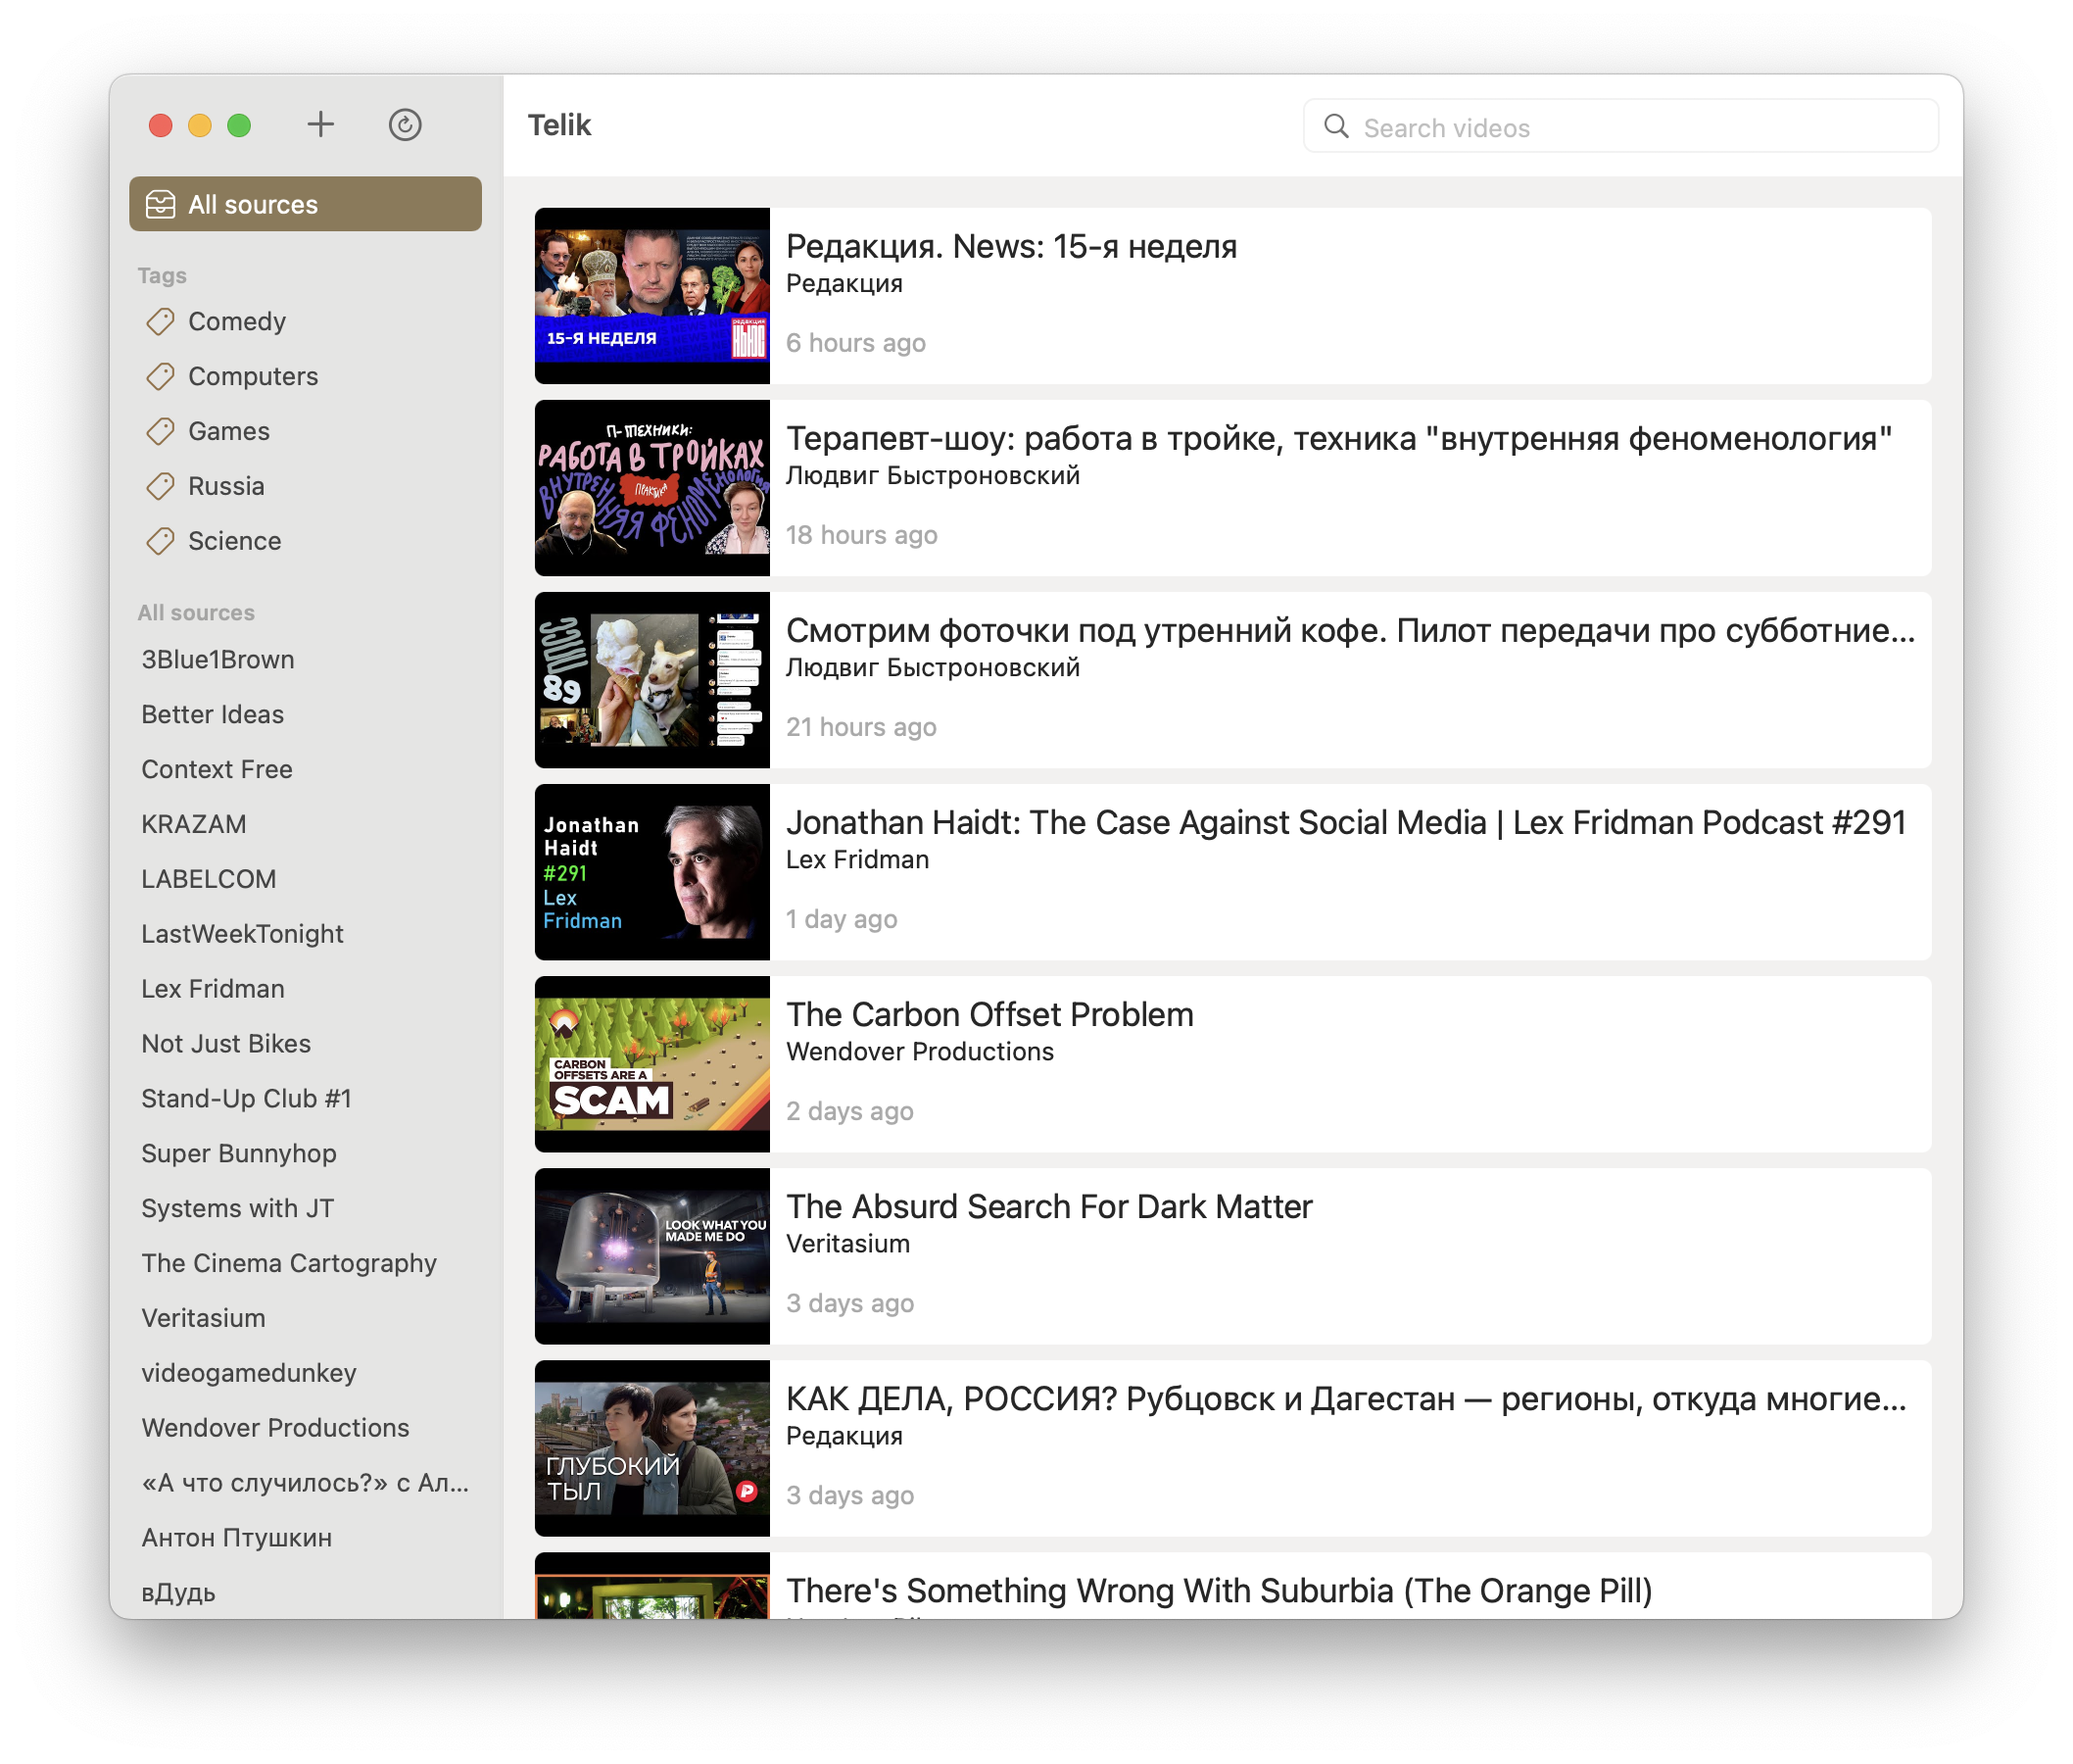
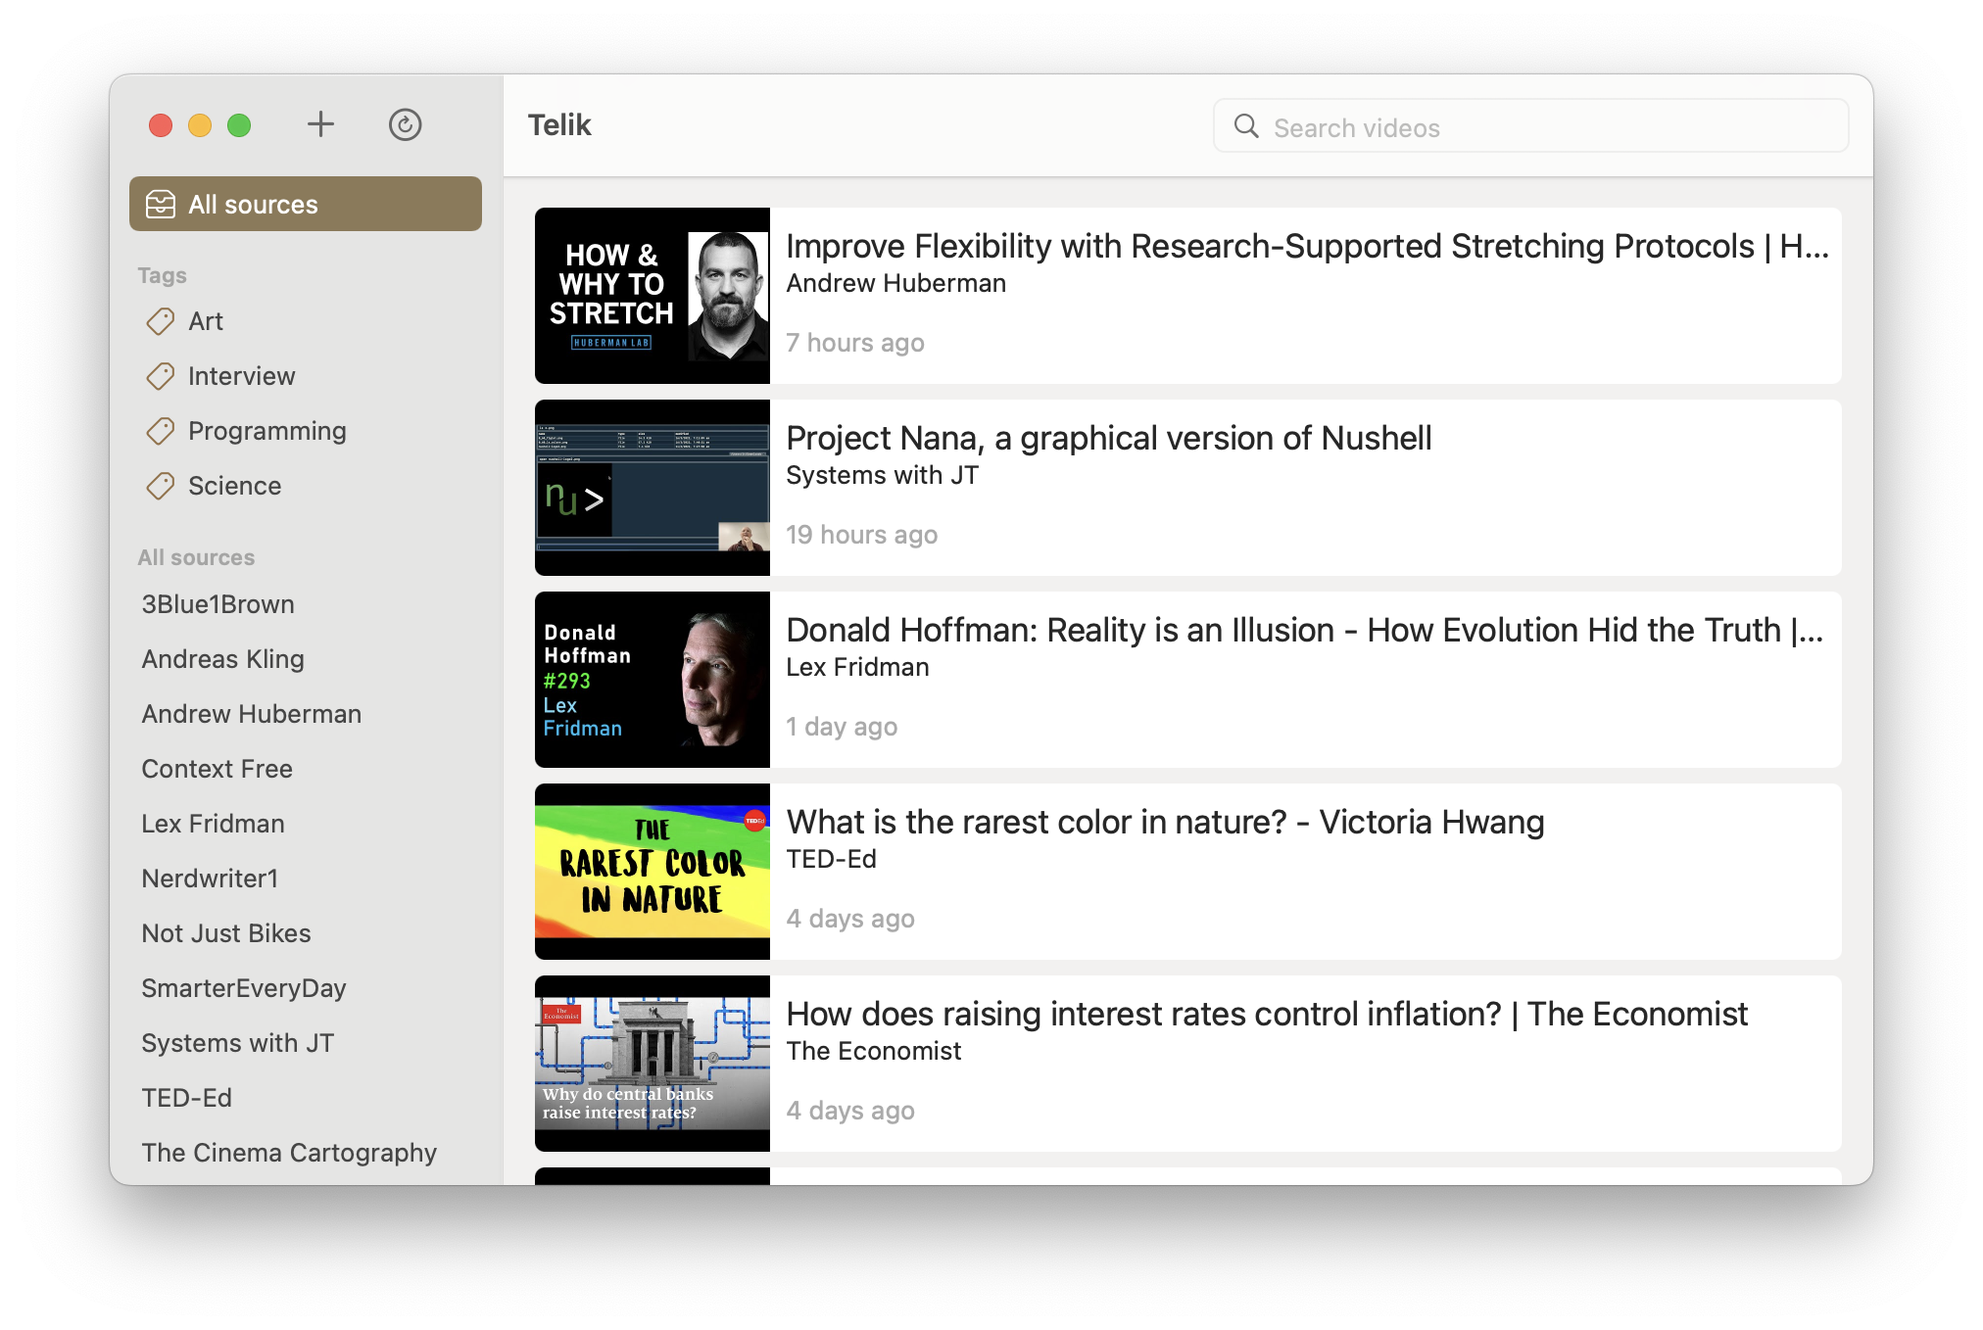
Update README.md

diff --git a/README.md b/README.md
@@ -12,44 +12,38 @@
   
 # Telik
 
-**[Download](https://github.com/agentcooper/Telik/releases/latest/download/Telik.app.zip)**
+**[Download for macOS 12+](https://github.com/agentcooper/Telik/releases/latest/download/Telik.app.zip)**
 
 Telik is a macOS application to track YouTube channels and playlists.
 
-Though similar functionality is available on youtube.com, when using Telik there are no distractions such as recommendations, likes, or comments. It is also not possible to subscribe to a particular playlist on the website.
-
-Channels and playlists can be grouped using tags.
-
-No YouTube account is needed to use Telik and you keep your data to yourself.
-
 ![Telik screenshot](screenshot.png)
 
-Export and import is available, for example you can get all my channels and playlists by pressing ⌘ N and pasting:
+Features:
+
+- Channels and playlists can be grouped using tags
+- No YouTube account is needed, and no data is collected by the app
+- No distractions such as recommendations, likes, or comments
+- Can subscribe to a particular playlist
+- Data can be easily exported and imported
+- Supports "quick open" with Command-O (or Command-P)
+
+To quickly try it out, press Command-N and paste:
 
 ```
-1. [вДудь](https://www.youtube.com/channel/UCMCgOm8GZkHp8zJ6l7_hIuA/videos) #Russia
-2. [Systems with JT](https://www.youtube.com/channel/UCrW38UKhlPoApXiuKNghuig/videos) #Computers
-3. [Сергей Гуриев](https://www.youtube.com/channel/UCZ-ix1fUTguJvwj6sxgF-6A/videos) #Russia
-4. [3Blue1Brown](https://www.youtube.com/channel/UCYO_jab_esuFRV4b17AJtAw/videos) #Science
-5. [Super Bunnyhop](https://www.youtube.com/channel/UCWqr2tH3dPshNhPjV5h1xRw/videos) #Games
-6. [videogamedunkey](https://www.youtube.com/channel/UCsvn_Po0SmunchJYOWpOxMg/videos) #Games
-7. [LastWeekTonight](https://www.youtube.com/channel/UC3XTzVzaHQEd30rQbuvCtTQ/videos)
-8. [ещёнепознер](https://www.youtube.com/channel/UCNRYbltJXhf6DepS26-uSbQ/videos) #Russia
-9. [KRAZAM](https://www.youtube.com/channel/UCgBVkKoOAr3ajSdFFLp13_A/videos) #Comedy
-10. [Better Ideas](https://www.youtube.com/channel/UCtUId5WFnN82GdDy7DgaQ7w/videos)
-11. [Stand-Up Club #1](https://www.youtube.com/channel/UC3cJiUuZlpF-pkzqvSskTpg/videos) #Comedy
-12. [Людвиг Быстроновский](https://www.youtube.com/channel/UCdfSFsVtyfF6-FqULDiA6zw/videos)
-13. [Радио Долин](https://www.youtube.com/channel/UCe5_WsZ_7RM14t3MImLWNZg/videos)
-14. [The Cinema Cartography](https://www.youtube.com/channel/UCL5kBJmBUVFLYBDiSiK1VDw/videos)
-15. [Context Free](https://www.youtube.com/channel/UCS4FAVeYW_IaZqAbqhlvxlA/videos) #Computers
-16. [Lex Fridman](https://www.youtube.com/channel/UCSHZKyawb77ixDdsGog4iWA/videos)
-17. [Редакция](https://www.youtube.com/channel/UC1eFXmJNkjITxPFWTy6RsWg/videos) #Russia
-18. [LABELCOM](https://www.youtube.com/channel/UCNqktdxgAADBj36dC7VGOgg/videos) #Comedy
-19. [Антон Птушкин](https://www.youtube.com/channel/UClI9aidW3X044NeB4QS-yxw/videos)
-20. [Veritasium](https://www.youtube.com/channel/UCHnyfMqiRRG1u-2MsSQLbXA/videos) #Science
-21. [Скажи Гордеевой](https://www.youtube.com/channel/UCpJuziZAwEFnoeNGSaxQlCQ/videos) #Russia
-22. [«А что случилось?» с Александром Долгополовым](https://www.youtube.com/playlist?list=PLMnzjxOFrGPnK_CtpsF6Qa_knNg7QyHzF) #Comedy
-23. [Wendover Productions](https://www.youtube.com/channel/UC9RM-iSvTu1uPJb8X5yp3EQ/videos)
+1. [Veritasium](https://www.youtube.com/channel/UCHnyfMqiRRG1u-2MsSQLbXA/videos) #Science
+2. [SmarterEveryDay](https://www.youtube.com/channel/UC6107grRI4m0o2-emgoDnAA/videos) #Science
+3. [3Blue1Brown](https://www.youtube.com/channel/UCYO_jab_esuFRV4b17AJtAw/videos) #Science
+4. [Systems with JT](https://www.youtube.com/channel/UCrW38UKhlPoApXiuKNghuig/videos) #Programming
+5. [Andreas Kling](https://www.youtube.com/channel/UC3ts8coMP645hZw9JSD3pqQ/videos) #Programming
+6. [Context Free](https://www.youtube.com/channel/UCS4FAVeYW_IaZqAbqhlvxlA/videos) #Programming
+7. [Lex Fridman](https://www.youtube.com/channel/UCSHZKyawb77ixDdsGog4iWA/videos) #Interview
+8. [The Cinema Cartography](https://www.youtube.com/channel/UCL5kBJmBUVFLYBDiSiK1VDw/videos) #Art
+9. [Nerdwriter1](https://www.youtube.com/user/Nerdwriter1) #Art
+10. [Wendover Productions](https://www.youtube.com/channel/UC9RM-iSvTu1uPJb8X5yp3EQ/videos)
+11. [Not Just Bikes](https://www.youtube.com/channel/UC0intLFzLaudFG-xAvUEO-A/videos)
+12. [TED-Ed](https://www.youtube.com/channel/UCsooa4yRKGN_zEE8iknghZA/videos)
+13. [The Economist](https://www.youtube.com/channel/UC0p5jTq6Xx_DosDFxVXnWaQ/videos)
+14. [Andrew Huberman](https://www.youtube.com/channel/UC2D2CMWXMOVWx7giW1n3LIg/videos)
 ```
 
 ---
